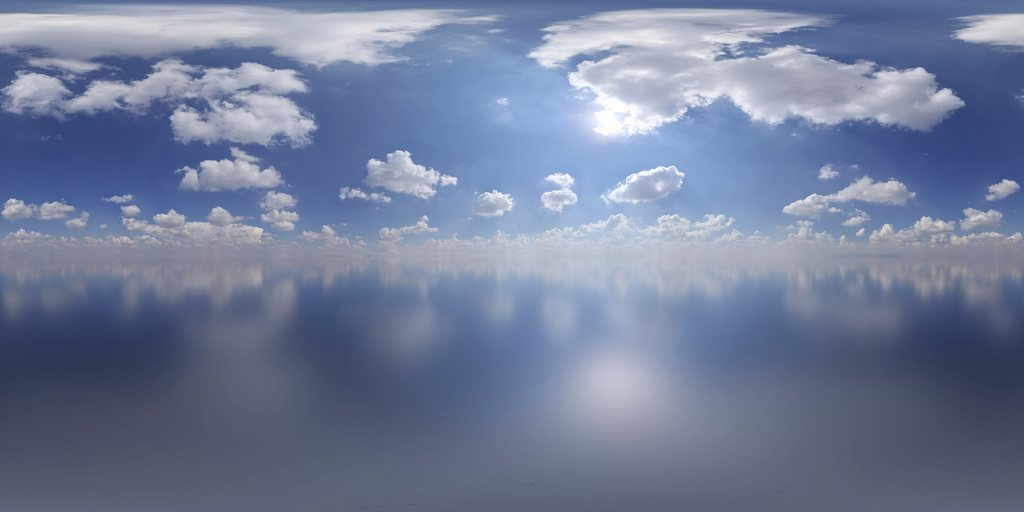
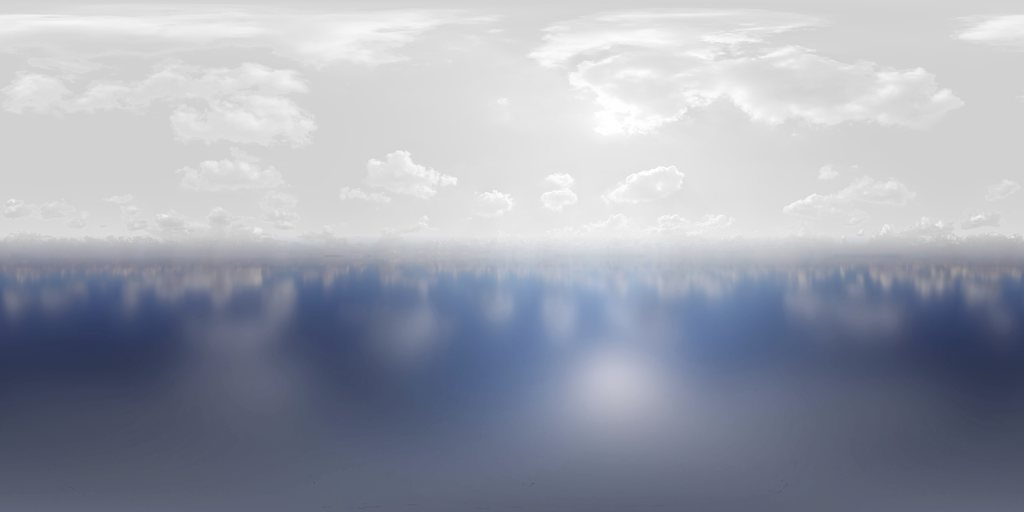
Éclaircit le ciel et retire le titre 3D inversé.
L'ouverture garde Kloofendal en CC0, plus claire et moins bleue, avec un rayon large et diffus. L'inscription 3D ne se lit plus à l'envers.

diff --git a/empty-museum/origin-room-look.js b/empty-museum/origin-room-look.js
@@ -287,12 +287,12 @@ function skyMaterial(mobile) {
   });
   const size = mobile ? "1k" : "2k";
   const loader = new THREE.TextureLoader();
-  loader.load("./assets/sky/kloofendal-48d-" + size + ".jpg", tex => {
+  loader.load("./assets/sky/kloofendal-48d-" + size + ".jpg?v=20261127j6", tex => {
     tex.colorSpace = THREE.SRGBColorSpace;
     tex.wrapS = THREE.RepeatWrapping;
     tex.wrapT = THREE.ClampToEdgeWrapping;
-    // Shift the sun out of the ceiling slot so the opening shows cumulus.
-    tex.offset.x = 0.18;
+    // Face the cloudiest longitude (+Z is texture u 0.25 before this offset).
+    tex.offset.x = 0.27;
     tex.needsUpdate = true;
     material.map = tex;
     material.needsUpdate = true;
@@ -371,7 +371,9 @@ export function installOriginRoomLook({
     if (!obj.isMesh && !obj.isInstancedMesh) return;
     const material = Array.isArray(obj.material) ? obj.material[0] : obj.material;
     const sign = material?.isMeshBasicMaterial && material.map;
-    if (mobile && obj.userData?.originHideOnMobile) {
+    // Portal and welcome titles are double-sided. From above, or in the floor
+    // mirror, they read backwards. The HTML title stays.
+    if (obj.userData?.originHideInscription || (mobile && obj.userData?.originHideOnMobile)) {
       obj.visible = false;
       return;
     }
@@ -428,8 +430,7 @@ export function installOriginRoomLook({
   sky.position.y = 2.2;
   sky.name = "origin-cumulus";
   scene.add(sky);
-  // Crossed cards: faces down the hall, and sheets under the slot for the look-up.
-  // A hollow box was invisible from inside the opening (front faces culled).
+  // Wide overlapping cards. Alpha falls off to the edge, so the shaft has no hard rim.
   const shaft = new THREE.InstancedMesh(new THREE.PlaneGeometry(1, 1), new THREE.ShaderMaterial({
     transparent: true,
     depthWrite: false,
@@ -451,27 +452,26 @@ export function installOriginRoomLook({
       varying vec2 vUv;
       varying float vHeight;
       void main() {
-        float across = 1.0 - smoothstep(0.02, 0.46, abs(vUv.x - 0.5));
-        float along = 1.0 - smoothstep(0.08, 0.5, abs(vUv.y - 0.5));
-        float down = smoothstep(1.85, 3.8, vHeight);
-        float alpha = across * along * down * 0.55;
-        if (alpha < 0.012) discard;
-        gl_FragColor = vec4(1.0, 0.97, 0.88, alpha);
+        float across = 1.0 - smoothstep(0.0, 0.5, abs(vUv.x - 0.5));
+        float along = 1.0 - smoothstep(0.0, 0.5, abs(vUv.y - 0.5));
+        float down = smoothstep(3.0, 5.6, vHeight);
+        float alpha = across * across * along * along * down * 0.22;
+        gl_FragColor = vec4(1.0, 0.99, 0.96, alpha);
       }
     `
-  }), 9);
+  }), 11);
   const card = new THREE.Object3D();
-  [3.4, 8.5, 15, 24, 36].forEach((z, index) => {
-    card.position.set(0, 4.2, z);
+  [4.2, 10, 18, 28, 40].forEach((z, index) => {
+    card.position.set(0, 4.55, z);
     card.rotation.set(0, 0, 0);
-    card.scale.set(1.65, 4.4, 1);
+    card.scale.set(2.9, 4.6, 1);
     card.updateMatrix();
     shaft.setMatrixAt(index, card.matrix);
   });
-  [[7, 5.45], [16, 4.85], [27, 4.2], [38, 3.55]].forEach(([z, y], index) => {
+  [[6, 5.75], [12, 5.35], [18, 4.95], [26, 4.5], [34, 4.05], [42, 3.6]].forEach(([z, y], index) => {
     card.position.set(0, y, z);
     card.rotation.set(-Math.PI / 2, 0, 0);
-    card.scale.set(1.5, 8, 1);
+    card.scale.set(2.8, 11, 1);
     card.updateMatrix();
     shaft.setMatrixAt(5 + index, card.matrix);
   });

diff --git a/empty-museum/engine3d.js b/empty-museum/engine3d.js
@@ -20,7 +20,7 @@ import {
   commercialFrameZ,
   FRAME,
   LEGACY_FRAME_SIZE_M
-} from "./origin-room-look.js?v=20261127j5b";
+} from "./origin-room-look.js?v=20261127j6";
 import {
   slideVisitor,
   separateVisitor,
@@ -282,10 +282,10 @@ import {
   const inscription=new THREE.MeshBasicMaterial({map:portalInk,transparent:true,depthWrite:false,side:THREE.DoubleSide});
   const portalFront=surface(portalSign,3.95,.61,inscription,0,0,-.067,Math.PI);
   portalFront.renderOrder=3;
-  // The HUD already carries the name. On a phone the engraved line sits behind it.
-  if(mobile){
-    portalFront.userData.originHideOnMobile=true;
-  }
+  // The HUD already carries the name. The marble look hides this plane on every
+  // device: it is double-sided, so looking up or into the floor mirror shows it reversed.
+  portalFront.userData.originHideInscription=true;
+  if(mobile) portalFront.userData.originHideOnMobile=true;
   // Optional real Cycles light-baked architectural entrance: V3 remains usable
   // until the generated GLB has been verified and downloaded.
   // Loading stays asynchronous; the visitor can already explore the V3
@@ -325,6 +325,7 @@ import {
     new THREE.MeshBasicMaterial({map:stamp,transparent:true,side:THREE.DoubleSide,depthWrite:false}),
     0,mobile?1.22:4.80,mobile?8.6:7.9,Math.PI);
   welcome.renderOrder=4;
+  welcome.userData.originHideInscription=true;
   if(mobile) welcome.userData.originHideOnMobile=true;
 
   // Materials for artworks are produced at runtime; uploaded images remain visible.

diff --git a/empty-museum/engine-loader.js b/empty-museum/engine-loader.js
@@ -29,7 +29,7 @@
       const {fitMuseumVisualViewport}=await import("./visual-viewport-v1.js?v=20261106v2");
       fitMobile=fitMuseumVisualViewport();
     }
-    await import("./engine3d.js?v=20261127j5");
+    await import("./engine3d.js?v=20261127j6");
     // The 3D engine mounts the joystick and dock asynchronously during import.
     fitMobile();
   }catch(error){legacy(error);}

diff --git a/empty-museum/index.html b/empty-museum/index.html
@@ -264,7 +264,7 @@
     }
     var script=document.createElement('script');
     script.type='module';
-    script.src="engine-loader.js?v=20261127j5";
+    script.src="engine-loader.js?v=20261127j6";
     document.body.appendChild(script);
   }
   function openFromAnchor(){

diff --git a/empty-museum/PROJECT_STATE.md b/empty-museum/PROJECT_STATE.md
@@ -155,6 +155,10 @@ Mis en place le **9 novembre 2026**. Ce document sert de référence commune ent
 - L’inscription 3D du portail est cachée sur mobile, le bandeau la porte déjà. L’or des cadres est un peu plus chaud, sans appel de dessin en plus.
 - État : proposé, non fusionné, non déployé.
 
+## Ciel plus clair et titre 3D retiré — 27 novembre 2026 (même PR brouillon #55, non fusionné, non déployé)
+- Guillaume : « Oui encore mieux allez ». Même ciel CC0 Kloofendal, éclairci et désaturé pour que l’ouverture soit un cumulus blanc plutôt qu’une bande bleue. Le rayon est plus large et plus diffus. L’inscription 3D « THE UNREAL MUSEUM » (portail et panneau flottant) est cachée dans cet essai, y compris dans le miroir, parce qu’elle se lisait à l’envers. Le titre HTML reste.
+- État : proposé, non fusionné, non déployé.
+
 ## Ciel CC0 dans l’ouverture — 27 novembre 2026 (même PR brouillon #55, non fusionné, non déployé)
 - Guillaume : « Avant la mise en ligne, fais le vrai ciel nuageux dans l'ouverture ». Seul le ciel change.
 - L’ouverture lit Kloofendal 48d Partly Cloudy (Pure Sky) de Poly Haven, CC0, 2K au bureau et 1K au mobile. Crédit : `empty-museum/assets/sky/CREDITS.md`. Le rayon est quelques cartes additives sous la fente, exclues du miroir du sol avec le dôme.

diff --git a/empty-museum/assets/sky/CREDITS.md b/empty-museum/assets/sky/CREDITS.md
@@ -7,6 +7,6 @@ Photo de ciel utilisée dans l’ouverture du plafond (`origin-room-look.js`).
 - Source : https://polyhaven.com/a/kloofendal_48d_partly_cloudy_puresky
 - Auteurs : Greg Zaal (prise de vue), Jarod Guest (édition du ciel)
 - Licence : CC0 1.0 — https://creativecommons.org/publicdomain/zero/1.0/
-- Fichiers : JPEG équirectangulaire dérivé du JPG tonemappé Poly Haven, 2048×1024 (bureau) et 1024×512 (mobile)
+- Fichiers : JPEG équirectangulaire dérivé du JPG tonemappé Poly Haven, 2048×1024 (bureau) et 1024×512 (mobile). L’hémisphère haute est éclaircie et désaturée pour remplir l’ouverture d’un cumulus clair, sans bande bleue.
 
-Le rayon de lumière est quelques cartes additives (pas une image). Aucun fichier payant.
+Le rayon de lumière est quelques cartes additives larges et transparentes (pas une image). Aucun fichier payant.
